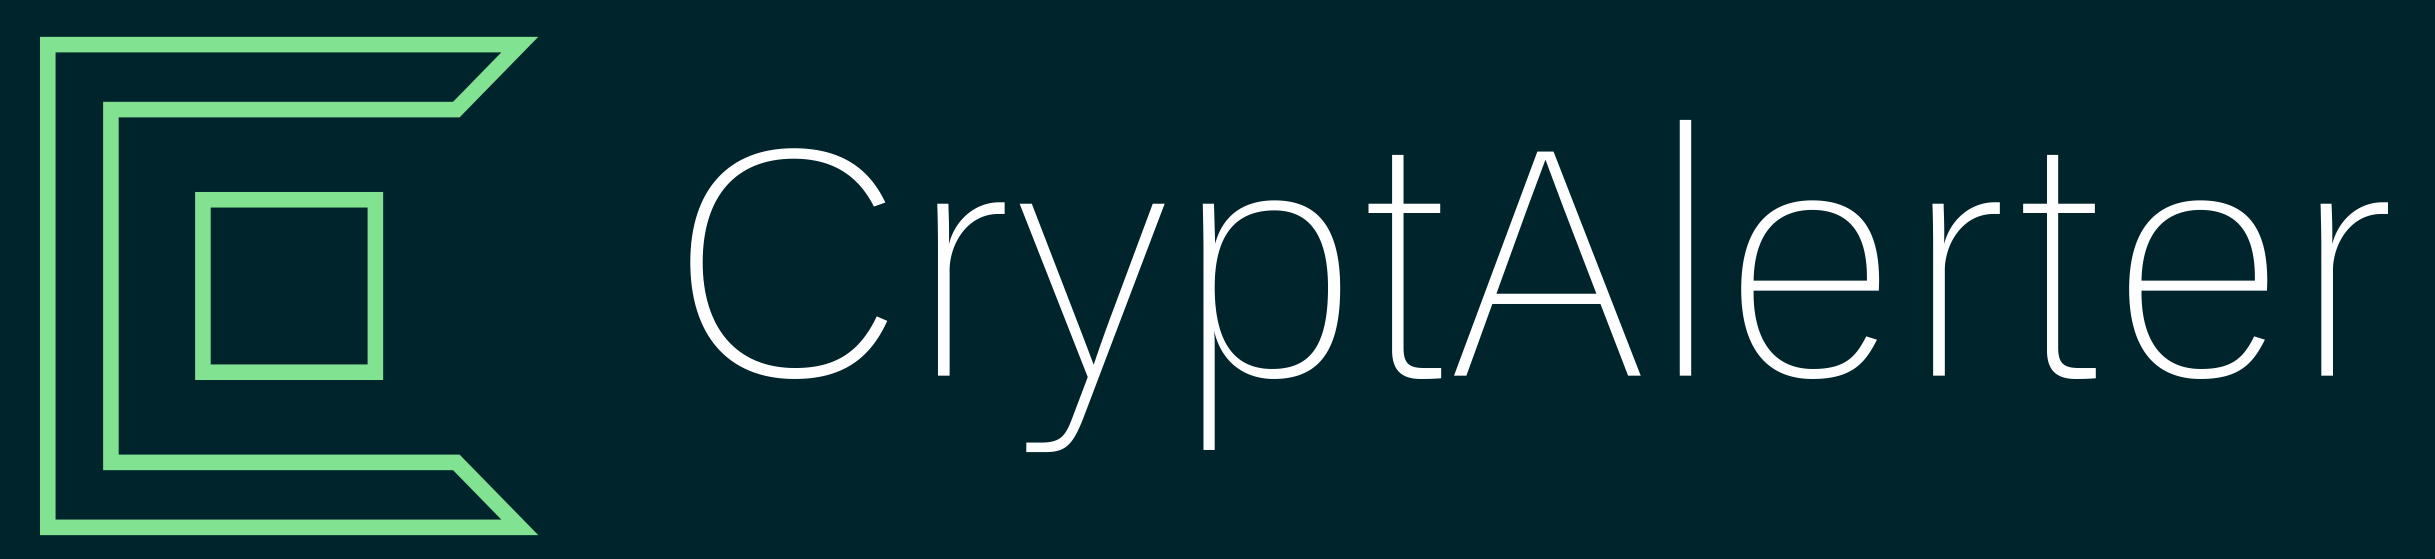
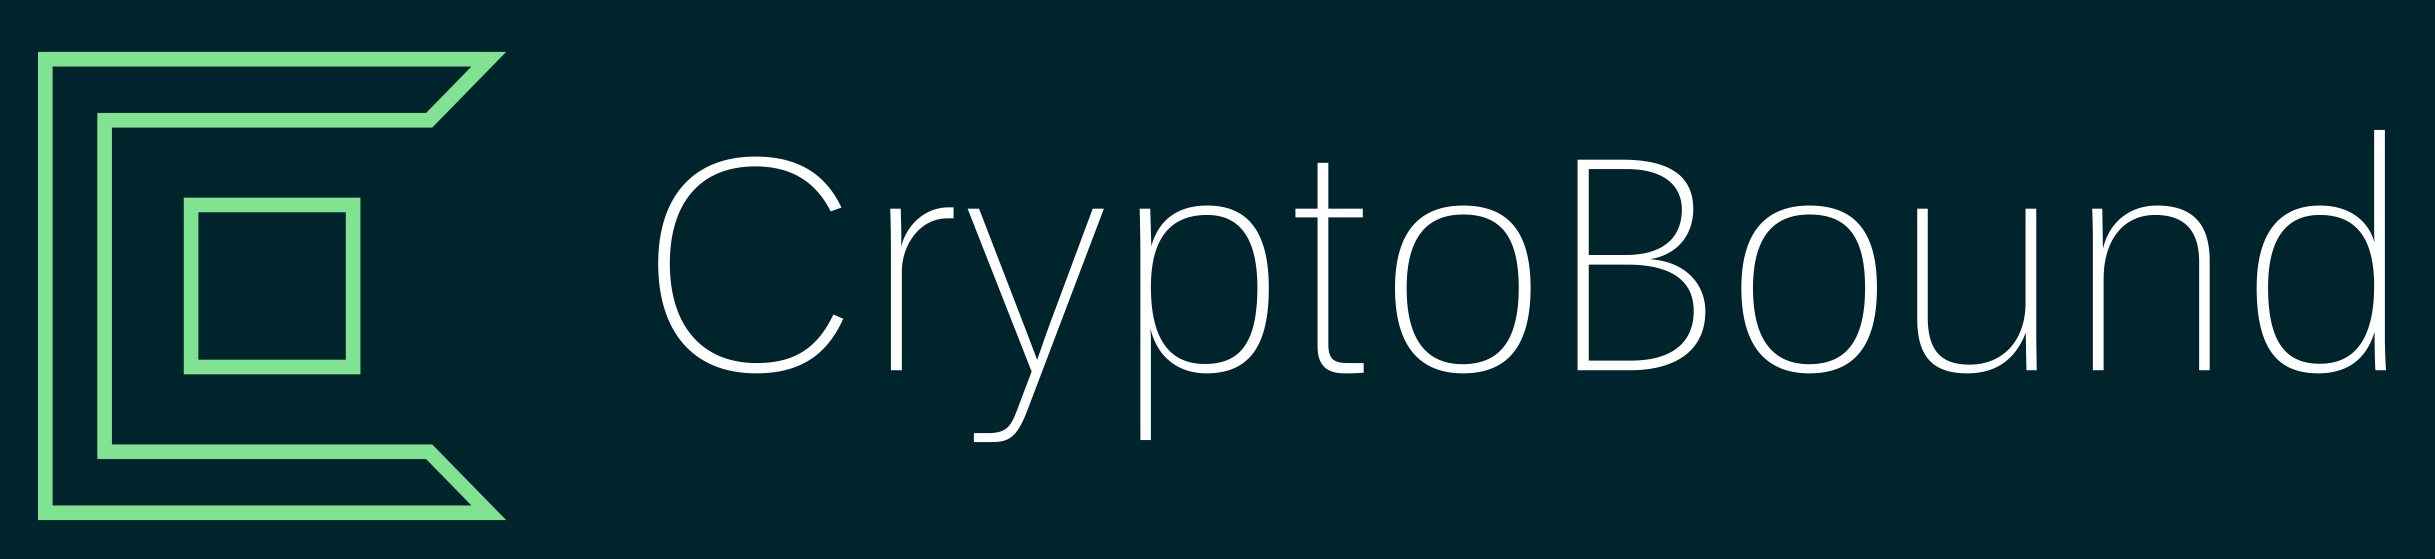
final name change

Changed region(s): [[0.2497, 0.2129, 0.9988, 0.8211], [0.0, 0.0608, 0.2185, 0.9732]]

diff --git a/index.html b/index.html
@@ -5,7 +5,7 @@
 <head>
     <meta charset="utf-8" />
     <meta name="viewport" content="width=device-width, initial-scale=1.0">
-    <title>CryptAlerter</title>
+    <title>CryptoBound</title>
     <link rel="stylesheet" href="https://maxcdn.bootstrapcdn.com/bootstrap/4.0.0/css/bootstrap.min.css"
         integrity="sha384-Gn5384xqQ1aoWXA+058RXPxPg6fy4IWvTNh0E263XmFcJlSAwiGgFAW/dAiS6JXm" crossorigin="anonymous">
     <link rel="stylesheet" href="styles/extrastyles.css">
@@ -15,7 +15,7 @@
 <body>
     <div class="container-sm">
         <div class="col-md-12">
-            <nav class="ml-3 mr-3 mt-3 navbar navbar-expand-lg navbar-dark bg-cryptalert rounded" id="navbar-primary">
+            <nav class="ml-3 mr-3 mt-3 navbar navbar-expand-lg navbar-dark bg-cryptobound rounded" id="navbar-primary">
                 <a class="navbar-brand" href="#"><img src="images/cover.png"></img></a>
                 <button class="navbar-toggler" type="button" data-toggle="collapse" data-target="#navbarNav"
                     aria-controls="navbarNav" aria-expanded="false" aria-label="Toggle navigation">
@@ -42,14 +42,14 @@
 
         <div class="row mt-1 mx-auto p-3">
             <div class="col-md-12">
-                <div class="card bg-cryptalert" id="content-home">
+                <div class="card bg-cryptobound" id="content-home">
                     <div class="card-body">
 
                         <div class="row">
                             <div class="col-md-6">
-                                <h2 class="text-center">Welcome to CryptAlerter!</h2>
+                                <h2 class="text-center">Welcome to CryptoBound!</h2>
                                 <div class="row ml-2 mr-2">
-                                    <p>CryptAlerter is a platform for BTC notifications. To get started, simply enter
+                                    <p>CryptoBound is a platform for BTC notifications. To get started, simply enter
                                         your
                                         e-mail to begin the verification process. Once verified, choose from a selection
                                         of
@@ -63,7 +63,7 @@
                                 <h2 class="text-center">Get Started</h2>
                                 <div class="row">
                                     <form class="mx-auto col-md-8">
-                                        <div class="form-group cryptalert-form">
+                                        <div class="form-group cryptobound-form">
                                             <label for="emailInput">E-mail: </label>
                                             <input class="form-control text-white" type="text" id="emailInput"
                                                 style="background-color:rgb(0, 26, 34)" />
@@ -87,16 +87,15 @@
     <footer class="footer">
         <p class="text-secondary">&copy; 2021 Ander Development</p>
     </footer>
-    <script src="https://code.jquery.com/jquery-3.2.1.slim.min.js"
-        integrity="sha384-KJ3o2DKtIkvYIK3UENzmM7KCkRr/rE9/Qpg6aAZGJwFDMVNA/GpGFF93hXpG5KkN"
-        crossorigin="anonymous"></script>
+    <script src="https://code.jquery.com/jquery-3.5.1.min.js"
+        integrity="sha256-9/aliU8dGd2tb6OSsuzixeV4y/faTqgFtohetphbbj0=" crossorigin="anonymous"></script>
     <script src="https://cdnjs.cloudflare.com/ajax/libs/popper.js/1.12.9/umd/popper.min.js"
         integrity="sha384-ApNbgh9B+Y1QKtv3Rn7W3mgPxhU9K/ScQsAP7hUibX39j7fakFPskvXusvfa0b4Q"
         crossorigin="anonymous"></script>
     <script src="https://maxcdn.bootstrapcdn.com/bootstrap/4.0.0/js/bootstrap.min.js"
         integrity="sha384-JZR6Spejh4U02d8jOt6vLEHfe/JQGiRRSQQxSfFWpi1MquVdAyjUar5+76PVCmYl"
         crossorigin="anonymous"></script>
-    <script src="scripts/cryptalert.js"></script>
+    <script src="scripts/cryptobound.js"></script>
 </body>
 
 

diff --git a/styles/extrastyles.css b/styles/extrastyles.css
@@ -30,16 +30,16 @@
     padding-right: 30px;
 }
 
-.bg-cryptalert {
+.bg-cryptobound {
     background-color: rgb(0, 36, 44);
 }
 
-.card.bg-cryptalert h1, h2, h3, h4 {
+.card.bg-cryptobound h1, h2, h3, h4 {
     color: rgb(244, 244, 244);
     font-family: 'Franklin Gothic Medium', 'Arial Narrow', Arial, sans-serif
 }
 
-.card.bg-cryptalert p {
+.card.bg-cryptobound p {
     font-family: 'Franklin Gothic Medium', 'Arial Narrow', Arial, sans-serif;
     color: rgb(200, 200, 200);
 }
@@ -65,7 +65,7 @@ body {
     background-color: rgb(21, 61, 70)
 }
 
-.cryptalert-form label {
+.cryptobound-form label {
     color: rgb(200, 200, 200);
 }
 

diff --git a/scripts/cryptobound.js b/scripts/cryptobound.js
@@ -1,0 +1,25 @@
+$(document).ready(function () {
+    // Add handlers
+    $('#emailCheckBtn').on('click', function () {
+        trySendEmail()
+    });
+
+
+});
+
+function trySendEmail() {
+    var email = $('#emailInput').val();
+    $.ajax({
+        type: 'GET',
+        dataType: 'json',
+        url: 'http://localhost:65347/core/begin/email?email=' + email,
+        success: function (data) {
+            alert(data.Email)
+        },
+        error: function () {
+            alert('Oof ')
+        }
+    });
+}
+
+// http://localhost:65347/
